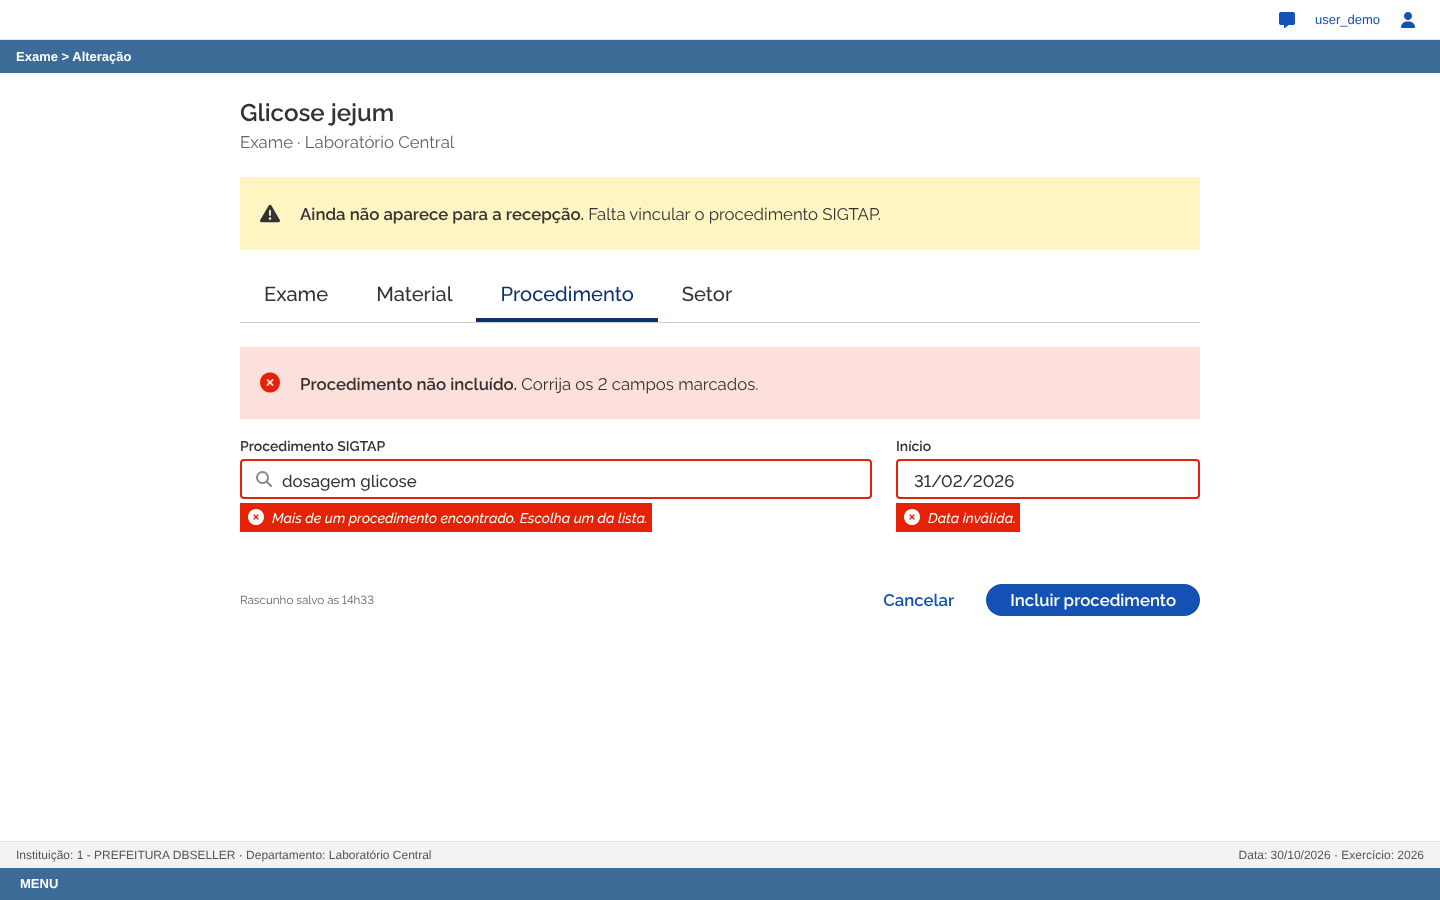
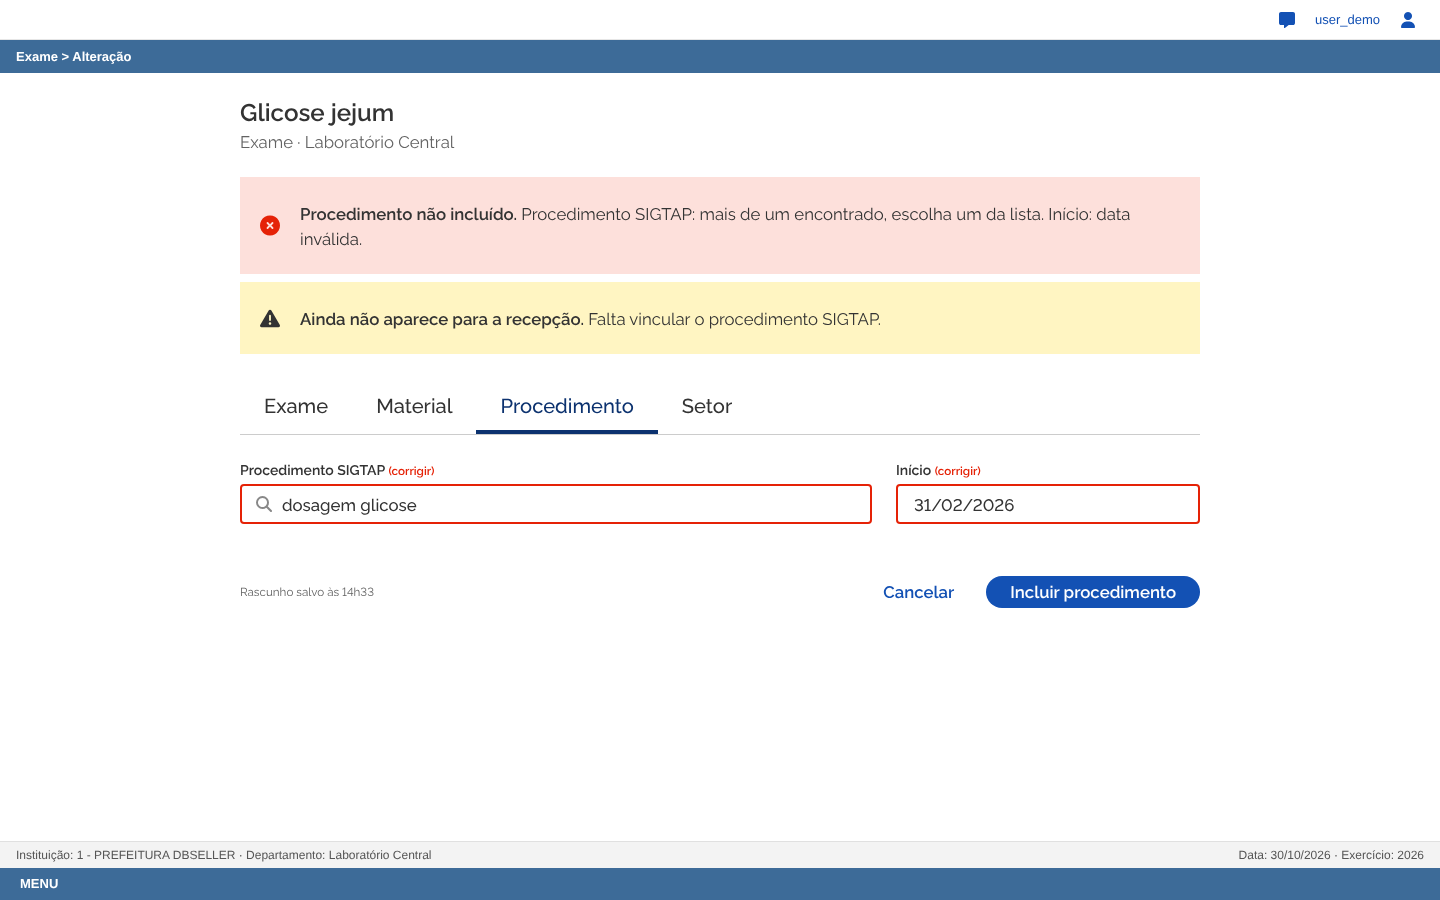
Alertas sempre no mesmo lugar, abaixo do título
Em todas as telas e estados, as mensagens passam a aparecer logo abaixo
do título; o item ou campo com problema só fica marcado (tag ou borda).
Prints refeitos e README atualizado.

Claude-Session: https://claude.ai/code/session_016StSx3LEsVS6FfvgkqAZUA

Changed region(s): [[0.1562, 0.1867, 0.8438, 0.5911], [0.5938, 0.6222, 0.8438, 0.6844], [0.1562, 0.6533, 0.25, 0.6844]]

diff --git a/telas/telas.html b/telas/telas.html
@@ -47,8 +47,9 @@ body.print .frame{border:0}
 .br-tag.bg-warning,.br-tag.bg-gray-20{color:#1b1b1b}
 .line{display:flex;align-items:center;justify-content:space-between;gap:16px;padding:12px 0}
 .line + .line{border-top:1px solid var(--gray-10)}
-.under{padding:0 0 12px}
-.under .br-message{margin:0}
+.slot{margin-bottom:24px}
+.slot .br-message{margin:0}
+.slot .br-message + .br-message{margin-top:8px}
 .sec{font-size:var(--font-size-scale-up-01);font-weight:600;margin:32px 0 8px}
 .foot{display:flex;justify-content:flex-end;align-items:center;gap:8px;margin-top:32px}
 .foot .note{margin-right:auto;color:var(--gray-60)}
@@ -88,21 +89,24 @@ const line = (name, meta, right) => `<div class="line"><div><div class="text-wei
 
 const TOP = `<div class="topbar"><i class="fas fa-comment-alt" aria-hidden="true"></i><span>user_demo</span><i class="fas fa-user" aria-hidden="true"></i></div>`;
 const STATUS_ = dep => `<div class="status"><span>Instituição: 1 - PREFEITURA DBSELLER · Departamento: ${dep}</span><span>Data: 30/10/2026 · Exercício: 2026</span></div><div class="taskbar">MENU</div>`;
+/* ---------- Regra única: todo alerta aparece no mesmo lugar ----------
+   Logo abaixo do título da tela, antes de qualquer campo. Se houver mais de um,
+   o resultado da ação vem primeiro e o aviso permanente depois. */
+const slot = (...m) => m.length ? `<div class="slot">${m.join('')}</div>` : '';
+
 /* ---------- Tela 1: Requisição de Exames (recepção) ---------- */
-function requisicao({top = '', busca = '', fb = '', resultados = '', lista = '', antesLista = '', salvar = 'primary'}) {
+function requisicao({alertas = [], busca = '', resultados = '', lista = '', salvar = 'primary'}) {
   return `<div class="frame">${TOP}<div class="legacy-bar">Requisição de Exames &gt; Lançar</div><div class="screen"><div class="screen-in">
     <h1 class="text-up-03 text-weight-semi-bold m-0">Requisição de exames</h1>
     <p class="text-gray-60 mt-1 mb-4">Daiane Souza · solicitado por Dra. Marina Lopes</p>
-    ${top}
-    <div class="br-input ${fb ? 'info' : ''}">
+    ${slot(...alertas)}
+    <div class="br-input">
       <label for="b">Exame</label>
       <div class="input-group"><div class="input-icon"><i class="fas fa-search" aria-hidden="true"></i></div>
         <input id="b" type="text" value="${busca}" placeholder="Nome, sigla ou código"></div>
-      ${fb}
     </div>
     ${resultados ? `<div class="mt-2">${resultados}</div>` : ''}
     <p class="sec">Exames nesta requisição</p>
-    ${antesLista}
     ${lista || '<p class="text-gray-60">Nenhum exame adicionado.</p>'}
     <div class="foot">${btn('', 'Cancelar')}${btn(salvar, 'Salvar requisição')}</div>
   </div></div>${STATUS_('Recepção · UBS Centro')}</div>`;
@@ -110,26 +114,25 @@ function requisicao({top = '', busca = '', fb = '', resultados = '', lista = '',
 const HMG = line('Hemograma completo', 'Laboratório Central', SALVO);
 
 /* ---------- Tela 2: Cadastro de Exame (laboratório) ---------- */
-function cadastro({aviso, campo1, campo2, topo = '', vinculado = '', nota}) {
+function cadastro({alertas = [], campo1, campo2, vinculado = '', nota}) {
   return `<div class="frame">${TOP}<div class="legacy-bar">Exame &gt; Alteração</div><div class="screen"><div class="screen-in">
     <h1 class="text-up-03 text-weight-semi-bold m-0">Glicose jejum</h1>
     <p class="text-gray-60 mt-1 mb-4">Exame · Laboratório Central</p>
-    ${aviso}
-    <div class="br-tab mt-3 mb-4"><nav class="tab-nav"><ul>${['Exame', 'Material', 'Procedimento', 'Setor'].map(n =>
+    ${slot(...alertas)}
+    <div class="br-tab mb-4"><nav class="tab-nav"><ul>${['Exame', 'Material', 'Procedimento', 'Setor'].map(n =>
       `<li class="tab-item ${n === 'Procedimento' ? 'is-active' : ''}"><button type="button"><span class="name">${n}</span></button></li>`).join('')}</ul></nav></div>
-    ${topo}
     <div class="row"><div class="col-sm-8 mb-3">${campo1}</div><div class="col-sm-4 mb-3">${campo2}</div></div>
     ${vinculado}
     <div class="foot"><span class="note text-down-01">${nota}</span>${btn('', 'Cancelar')}${btn('primary', 'Incluir procedimento')}</div>
   </div></div>${STATUS_('Laboratório Central')}</div>`;
 }
-const field = (id, label, value, state = '', fb = '', icon = '') => `
-  <div class="br-input ${state}"><label for="${id}">${label}</label>
+/* Campo com erro: só a borda vermelha; o texto do erro fica no alerta do topo */
+const field = (id, label, value, state = '', icon = '') => `
+  <div class="br-input ${state}"><label for="${id}">${label}${state === 'danger' ? ' <span class="text-danger text-down-01">(corrigir)</span>' : ''}</label>
     ${icon ? `<div class="input-group"><div class="input-icon"><i class="fas ${icon}" aria-hidden="true"></i></div>` : ''}
-    <input id="${id}" type="text" value="${value}" placeholder="">${icon ? '</div>' : ''}
-    ${fb ? `<span class="feedback ${state}" role="alert"><i class="fas ${ICON[state]}" aria-hidden="true"></i>${fb}</span>` : ''}
+    <input id="${id}" type="text" value="${value}" placeholder="" ${state === 'danger' ? 'aria-invalid="true"' : ''}>${icon ? '</div>' : ''}
   </div>`;
-const AVISO_FALTA = msg('warning', 'Ainda não aparece para a recepção.', 'Falta vincular o procedimento SIGTAP.');
+const FALTA = msg('warning', 'Ainda não aparece para a recepção.', 'Falta vincular o procedimento SIGTAP.');
 
 /* ---------- Os estados ---------- */
 const TELAS = {
@@ -137,54 +140,54 @@ const TELAS = {
   { id:'sucesso', nome:'Sucesso', ds:'Mensagem de sucesso', tipo:'—',
     origem:'Fluxo normal da etapa 5 do to-be.',
     faz:'Confirma o que entrou na requisição e libera a busca para o próximo exame.',
-    html: requisicao({ top: msg('success', 'Hemograma completo adicionado.', 'Coleta em 31/10.'), lista: HMG }) },
+    html: requisicao({ alertas: [msg('success', 'Hemograma completo adicionado.', 'Coleta em 31/10.')], lista: HMG }) },
   { id:'atencao', nome:'Atenção', ds:'Mensagem de atenção', tipo:'Contexto: o dado pode estar desatualizado',
     origem:'Risco "janela de atraso" do to-be (etapa 6): o Serviço de Prontidão reavalia de tempos em tempos.',
-    faz:'Diz por que não tem certeza e onde conferir. Recomenda verificar de novo; adicionar mesmo assim fica como opção secundária.',
+    faz:'Diz por que não tem certeza e o que fazer. Recomenda verificar de novo; adicionar mesmo assim fica como opção secundária.',
     html: requisicao({ busca:'TSH',
-      resultados: line('TSH', 'Laboratório Central', CONF + btn('', 'Adicionar mesmo assim')) +
-        `<div class="under">${msg('warning', 'A disponibilidade pode ter mudado.', 'O cadastro do TSH foi alterado depois da última verificação (14h05).', btn('secondary', 'Verificar agora', 'fa-sync-alt'))}</div>`,
+      alertas: [msg('warning', 'A disponibilidade do TSH pode ter mudado.', 'O cadastro foi alterado depois da última verificação (14h05).', btn('secondary', 'Verificar agora', 'fa-sync-alt'))],
+      resultados: line('TSH', 'Laboratório Central', CONF + btn('', 'Adicionar mesmo assim')),
       lista: HMG }) },
-  { id:'erro', nome:'Erro', ds:'Mensagem de erro, junto ao exame', tipo:'Contexto: o sistema esconde o exame sem avisar',
+  { id:'erro', nome:'Erro', ds:'Mensagem de erro', tipo:'Contexto: o sistema esconde o exame sem avisar',
     origem:'P1 da S2 (H9 e H1, severidade 4), cruzamento X3. Hoje a tela responde "Nenhum Registro Retornado".',
     faz:'Mostra o exame bloqueado, o motivo e quem resolve. Não perde o que já foi adicionado e deixa seguir com os outros exames.',
     html: requisicao({ busca:'Glicose',
+      alertas: [msg('danger', 'Glicose jejum não pode ser requisitado agora.', 'Falta o procedimento SIGTAP no cadastro. O Laboratório Central já foi avisado.')],
       resultados: line('Glicose jejum', 'Laboratório Central', PEND + btn('secondary', 'Adicionar', '', true)) +
-        `<div class="under">${msg('danger', 'Não pode ser requisitado agora.', 'Falta o procedimento SIGTAP no cadastro. O Laboratório Central já foi avisado.')}</div>` +
-        line('Glicose pós-prandial', 'Laboratório Central', PRONTO + btn('secondary', 'Adicionar')),
+                  line('Glicose pós-prandial', 'Laboratório Central', PRONTO + btn('secondary', 'Adicionar')),
       lista: HMG }) },
   { id:'informacao', nome:'Informação', ds:'Mensagem de informação', tipo:'Sistema: uma parte funcionou, outra não',
     origem:'Convivência legado + serviço (to-be, etapa 5) e PS6 do ATAM: cada gravação é separada.',
     faz:'Diz quantos foram salvos e quais faltam. O botão principal tenta só os que faltaram, sem recomeçar.',
     html: requisicao({ salvar:'secondary',
-      antesLista: msg('info', '3 de 5 exames salvos.', 'TSH e Creatinina não foram salvos porque o Laboratório não respondeu.', btn('primary', 'Tentar os 2 de novo', 'fa-redo')),
+      alertas: [msg('info', '3 de 5 exames salvos.', 'TSH e Creatinina não foram salvos porque o Laboratório não respondeu.', btn('primary', 'Tentar os 2 de novo', 'fa-redo'))],
       lista: HMG + line('Glicose pós-prandial', 'Laboratório Central', SALVO) + line('Colesterol HDL', 'Laboratório Central', SALVO) +
              line('TSH', 'Laboratório Central', NSALVO) + line('Creatinina', 'Laboratório Central', NSALVO) }) },
-  { id:'indisponivel', nome:'Indisponível', ds:'Mensagem de erro, no topo', tipo:'Sistema: o serviço caiu',
+  { id:'indisponivel', nome:'Indisponível', ds:'Mensagem de erro', tipo:'Sistema: o serviço caiu',
     origem:'Risco do to-be (etapa 5): "se o serviço cair, a requisição precisa de um modo degradado".',
     faz:'Avisa o que não funciona agora e que nada foi perdido. A busca continua no modo antigo, mas nenhum exame é marcado "Pronto" sem verificação.',
-    html: requisicao({ top: msg('danger', 'Não conseguimos verificar os exames agora.', 'A busca está no modo antigo e não mostra pendências. Sua requisição continua salva aqui.', btn('secondary', 'Tentar de novo', 'fa-sync-alt')) + '<div class="mb-3"></div>',
-      busca:'Hemograma', resultados: line('Hemograma completo', 'Laboratório Central', btn('secondary', 'Adicionar')) }) },
+    html: requisicao({ busca:'Hemograma',
+      alertas: [msg('danger', 'Não conseguimos verificar os exames agora.', 'A busca está no modo antigo e não mostra pendências. Sua requisição continua salva aqui.', btn('secondary', 'Tentar de novo', 'fa-sync-alt'))],
+      resultados: line('Hemograma completo', 'Laboratório Central', btn('secondary', 'Adicionar')) }) },
  ]},
  cadastro: { nome: 'Cadastro (laboratório) · ir além', estados: [
-  { id:'validar', nome:'Erro no campo', ds:'Mensagem contextual de erro', tipo:'Entrada: o código digitado não existe',
+  { id:'validar', nome:'Erro no campo', ds:'Mensagem de erro', tipo:'Entrada: o código digitado não existe',
     origem:'P2 da S2 (H5, severidade 3): o exame fica ativo antes de estar completo. ATAM §5.2.3: falta validar ao ativar.',
-    faz:'Avisa no próprio campo, enquanto a pessoa digita, o que está errado e como corrigir. Nada é apagado.',
-    html: cadastro({ aviso: AVISO_FALTA,
-      campo1: field('p', 'Procedimento SIGTAP', '0202010470', 'danger', 'Esse código não existe na competência 10/2026. Confira os dígitos.', 'fa-search'),
+    faz:'Avisa enquanto a pessoa digita, no mesmo lugar de todos os alertas, e marca o campo em vermelho. Nada é apagado.',
+    html: cadastro({ alertas: [msg('danger', 'Código SIGTAP não encontrado.', 'O código 0202010470 não existe na competência 10/2026. Confira os dígitos.'), FALTA],
+      campo1: field('p', 'Procedimento SIGTAP', '0202010470', 'danger', 'fa-search'),
       campo2: field('d', 'Início', '01/11/2026'), nota: 'Rascunho salvo às 14h31' }) },
-  { id:'incluir', nome:'Erro ao incluir', ds:'Mensagem de erro + contextual', tipo:'Entrada: campos inválidos',
+  { id:'incluir', nome:'Erro ao incluir', ds:'Mensagem de erro', tipo:'Entrada: campos inválidos',
     origem:'Mesmo P2: hoje o legado aceita o exame incompleto sem aviso.',
-    faz:'Diz que o procedimento não foi incluído e quais campos corrigir. Mantém o que foi digitado.',
-    html: cadastro({ aviso: AVISO_FALTA,
-      topo: msg('danger', 'Procedimento não incluído.', 'Corrija os 2 campos marcados.') + '<div class="mb-3"></div>',
-      campo1: field('p', 'Procedimento SIGTAP', 'dosagem glicose', 'danger', 'Mais de um procedimento encontrado. Escolha um da lista.', 'fa-search'),
-      campo2: field('d', 'Início', '31/02/2026', 'danger', 'Data inválida.'), nota: 'Rascunho salvo às 14h33' }) },
+    faz:'Diz que o procedimento não foi incluído e o que corrigir em cada campo. Os campos ficam marcados e o que foi digitado continua lá.',
+    html: cadastro({ alertas: [msg('danger', 'Procedimento não incluído.', 'Procedimento SIGTAP: mais de um encontrado, escolha um da lista. Início: data inválida.'), FALTA],
+      campo1: field('p', 'Procedimento SIGTAP', 'dosagem glicose', 'danger', 'fa-search'),
+      campo2: field('d', 'Início', '31/02/2026', 'danger'), nota: 'Rascunho salvo às 14h33' }) },
   { id:'pronto', nome:'Sucesso', ds:'Mensagem de sucesso', tipo:'—',
     origem:'Fecha o ciclo com a tela 1: a recepção passa a encontrar o exame.',
     faz:'Confirma que o exame está pronto e diz o efeito para quem depende dele (a recepção).',
-    html: cadastro({ aviso: msg('success', 'Pronto para requisitar.', 'A recepção já encontra este exame.'),
-      campo1: field('p', 'Procedimento SIGTAP', '', '', '', 'fa-search'), campo2: field('d', 'Início', ''),
+    html: cadastro({ alertas: [msg('success', 'Pronto para requisitar.', 'A recepção já encontra este exame.')],
+      campo1: field('p', 'Procedimento SIGTAP', '', '', 'fa-search'), campo2: field('d', 'Início', ''),
       vinculado: `<p class="sec">Procedimento vinculado</p>` + line('0202010473 · Dosagem de glicose', 'Desde 01/11/2026', tag('bg-success', 'fa-check', 'Ativo')),
       nota: 'Salvo às 14h36' }) },
  ]},
